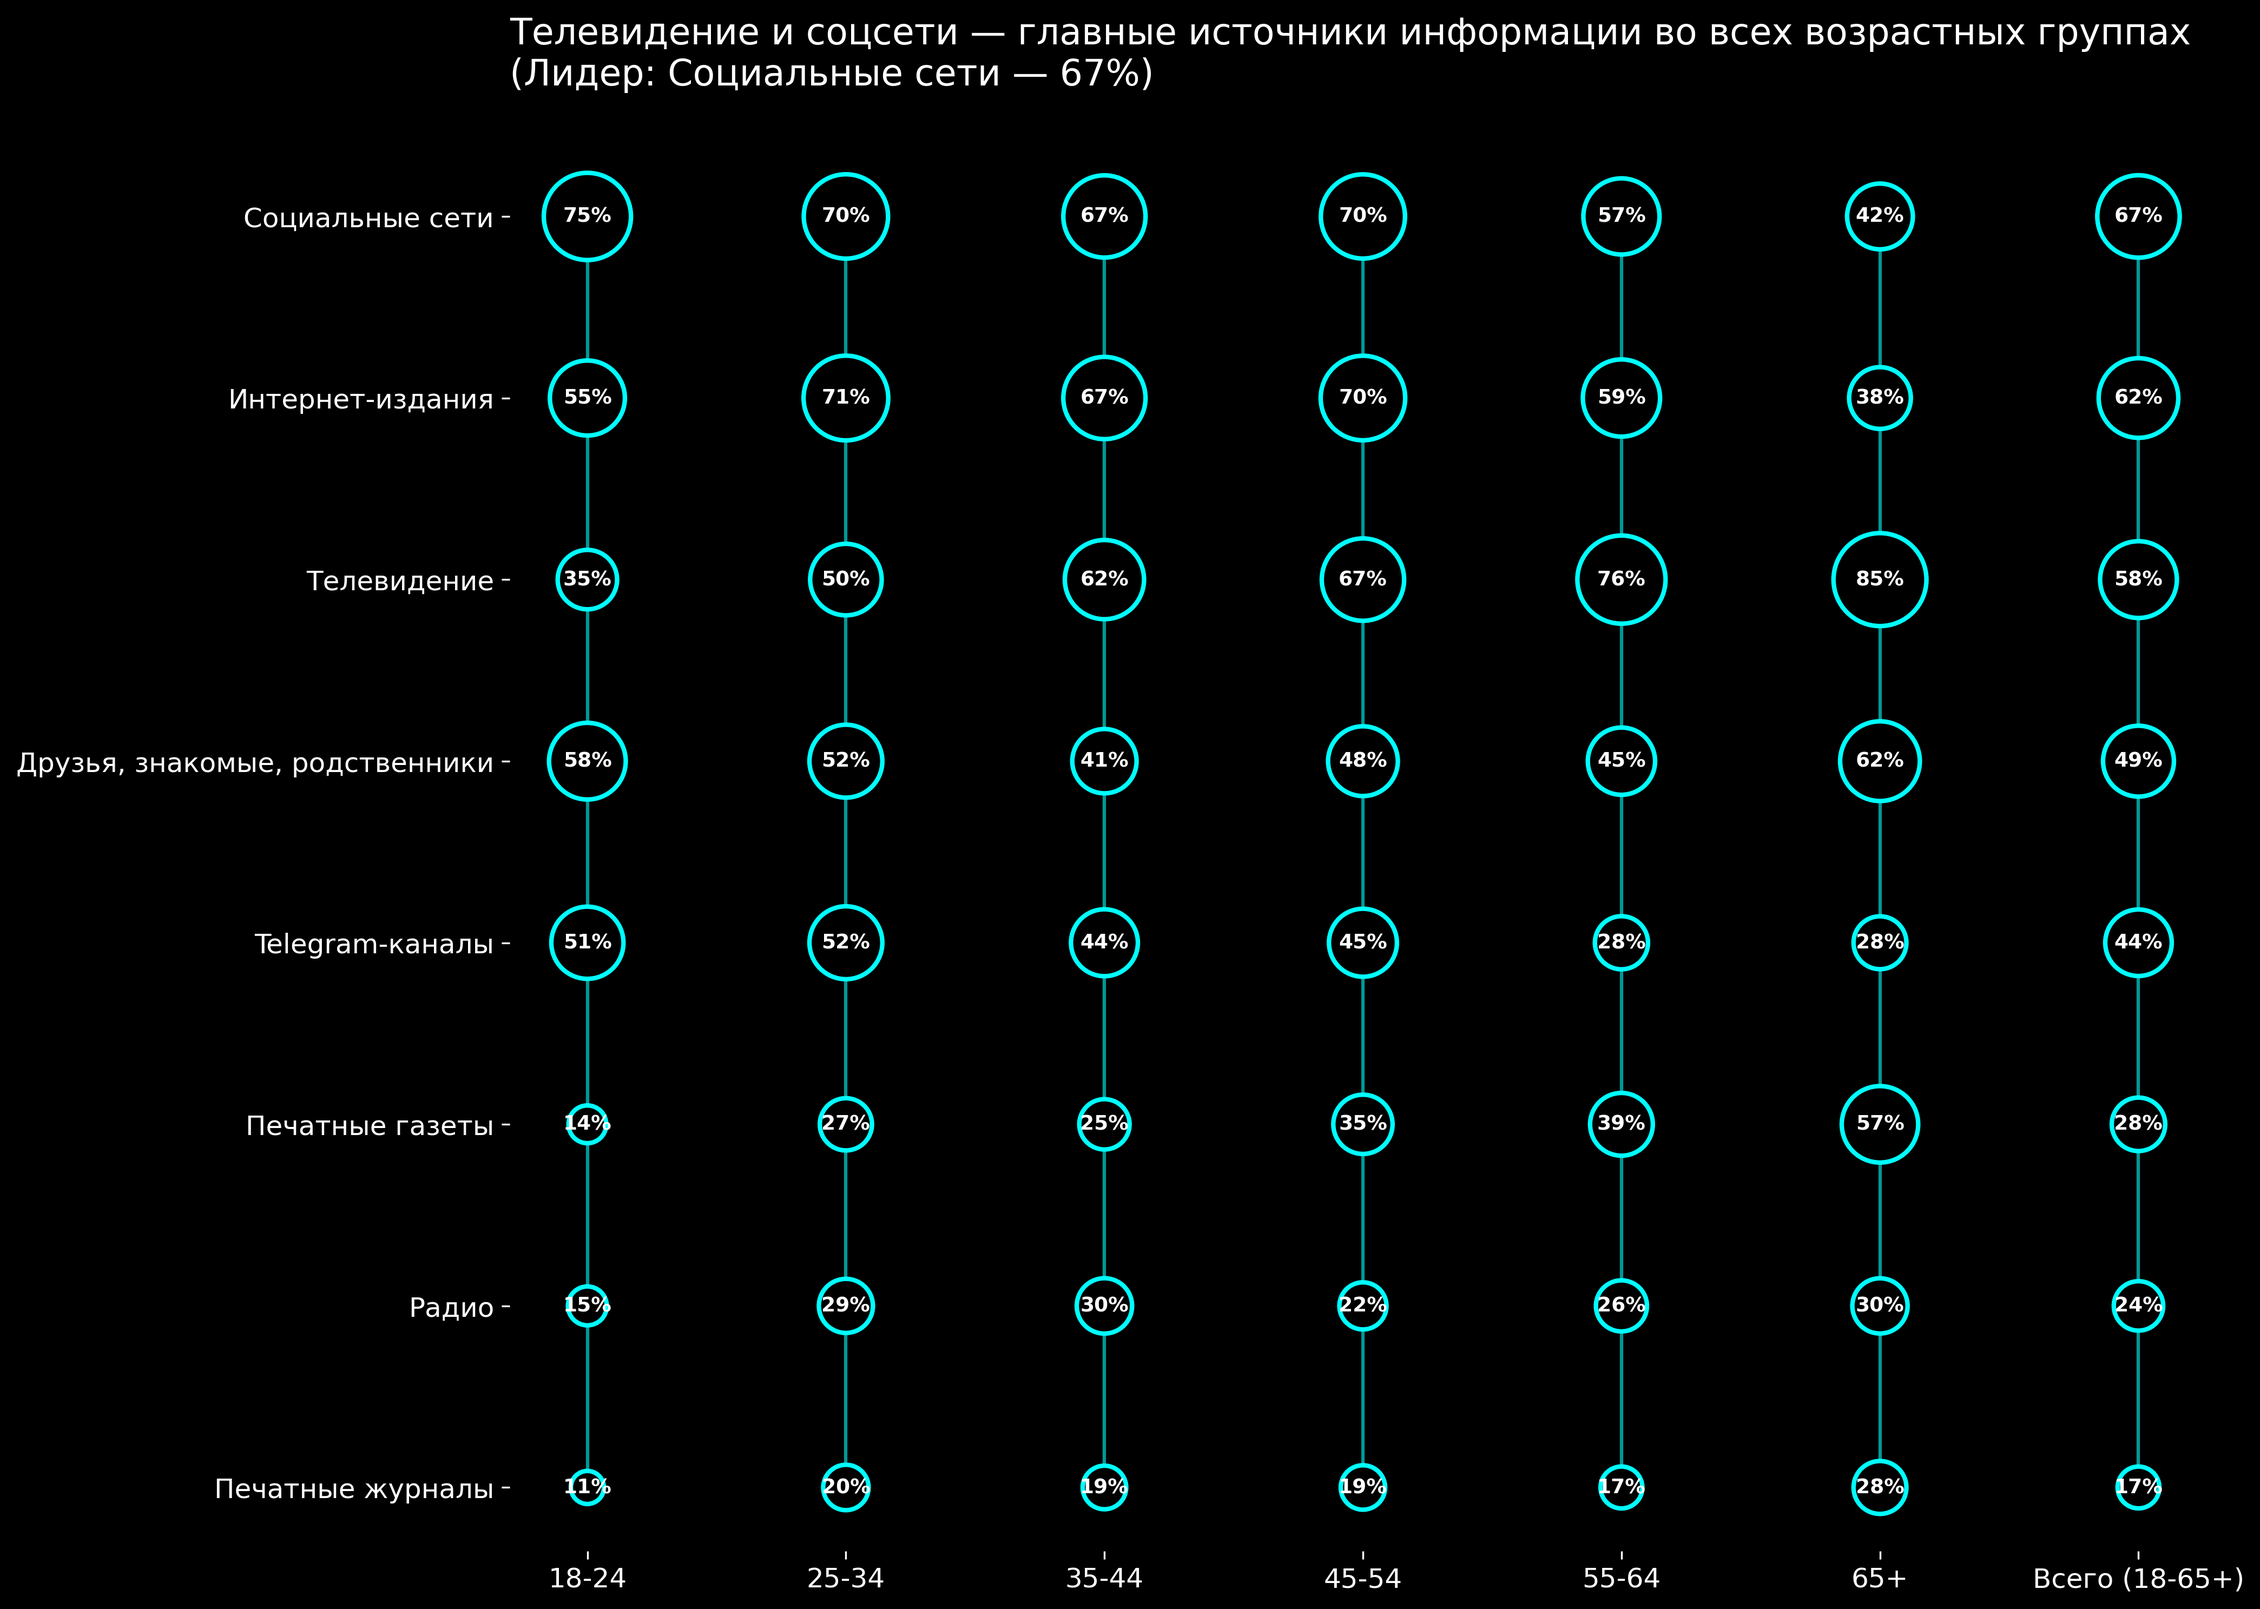
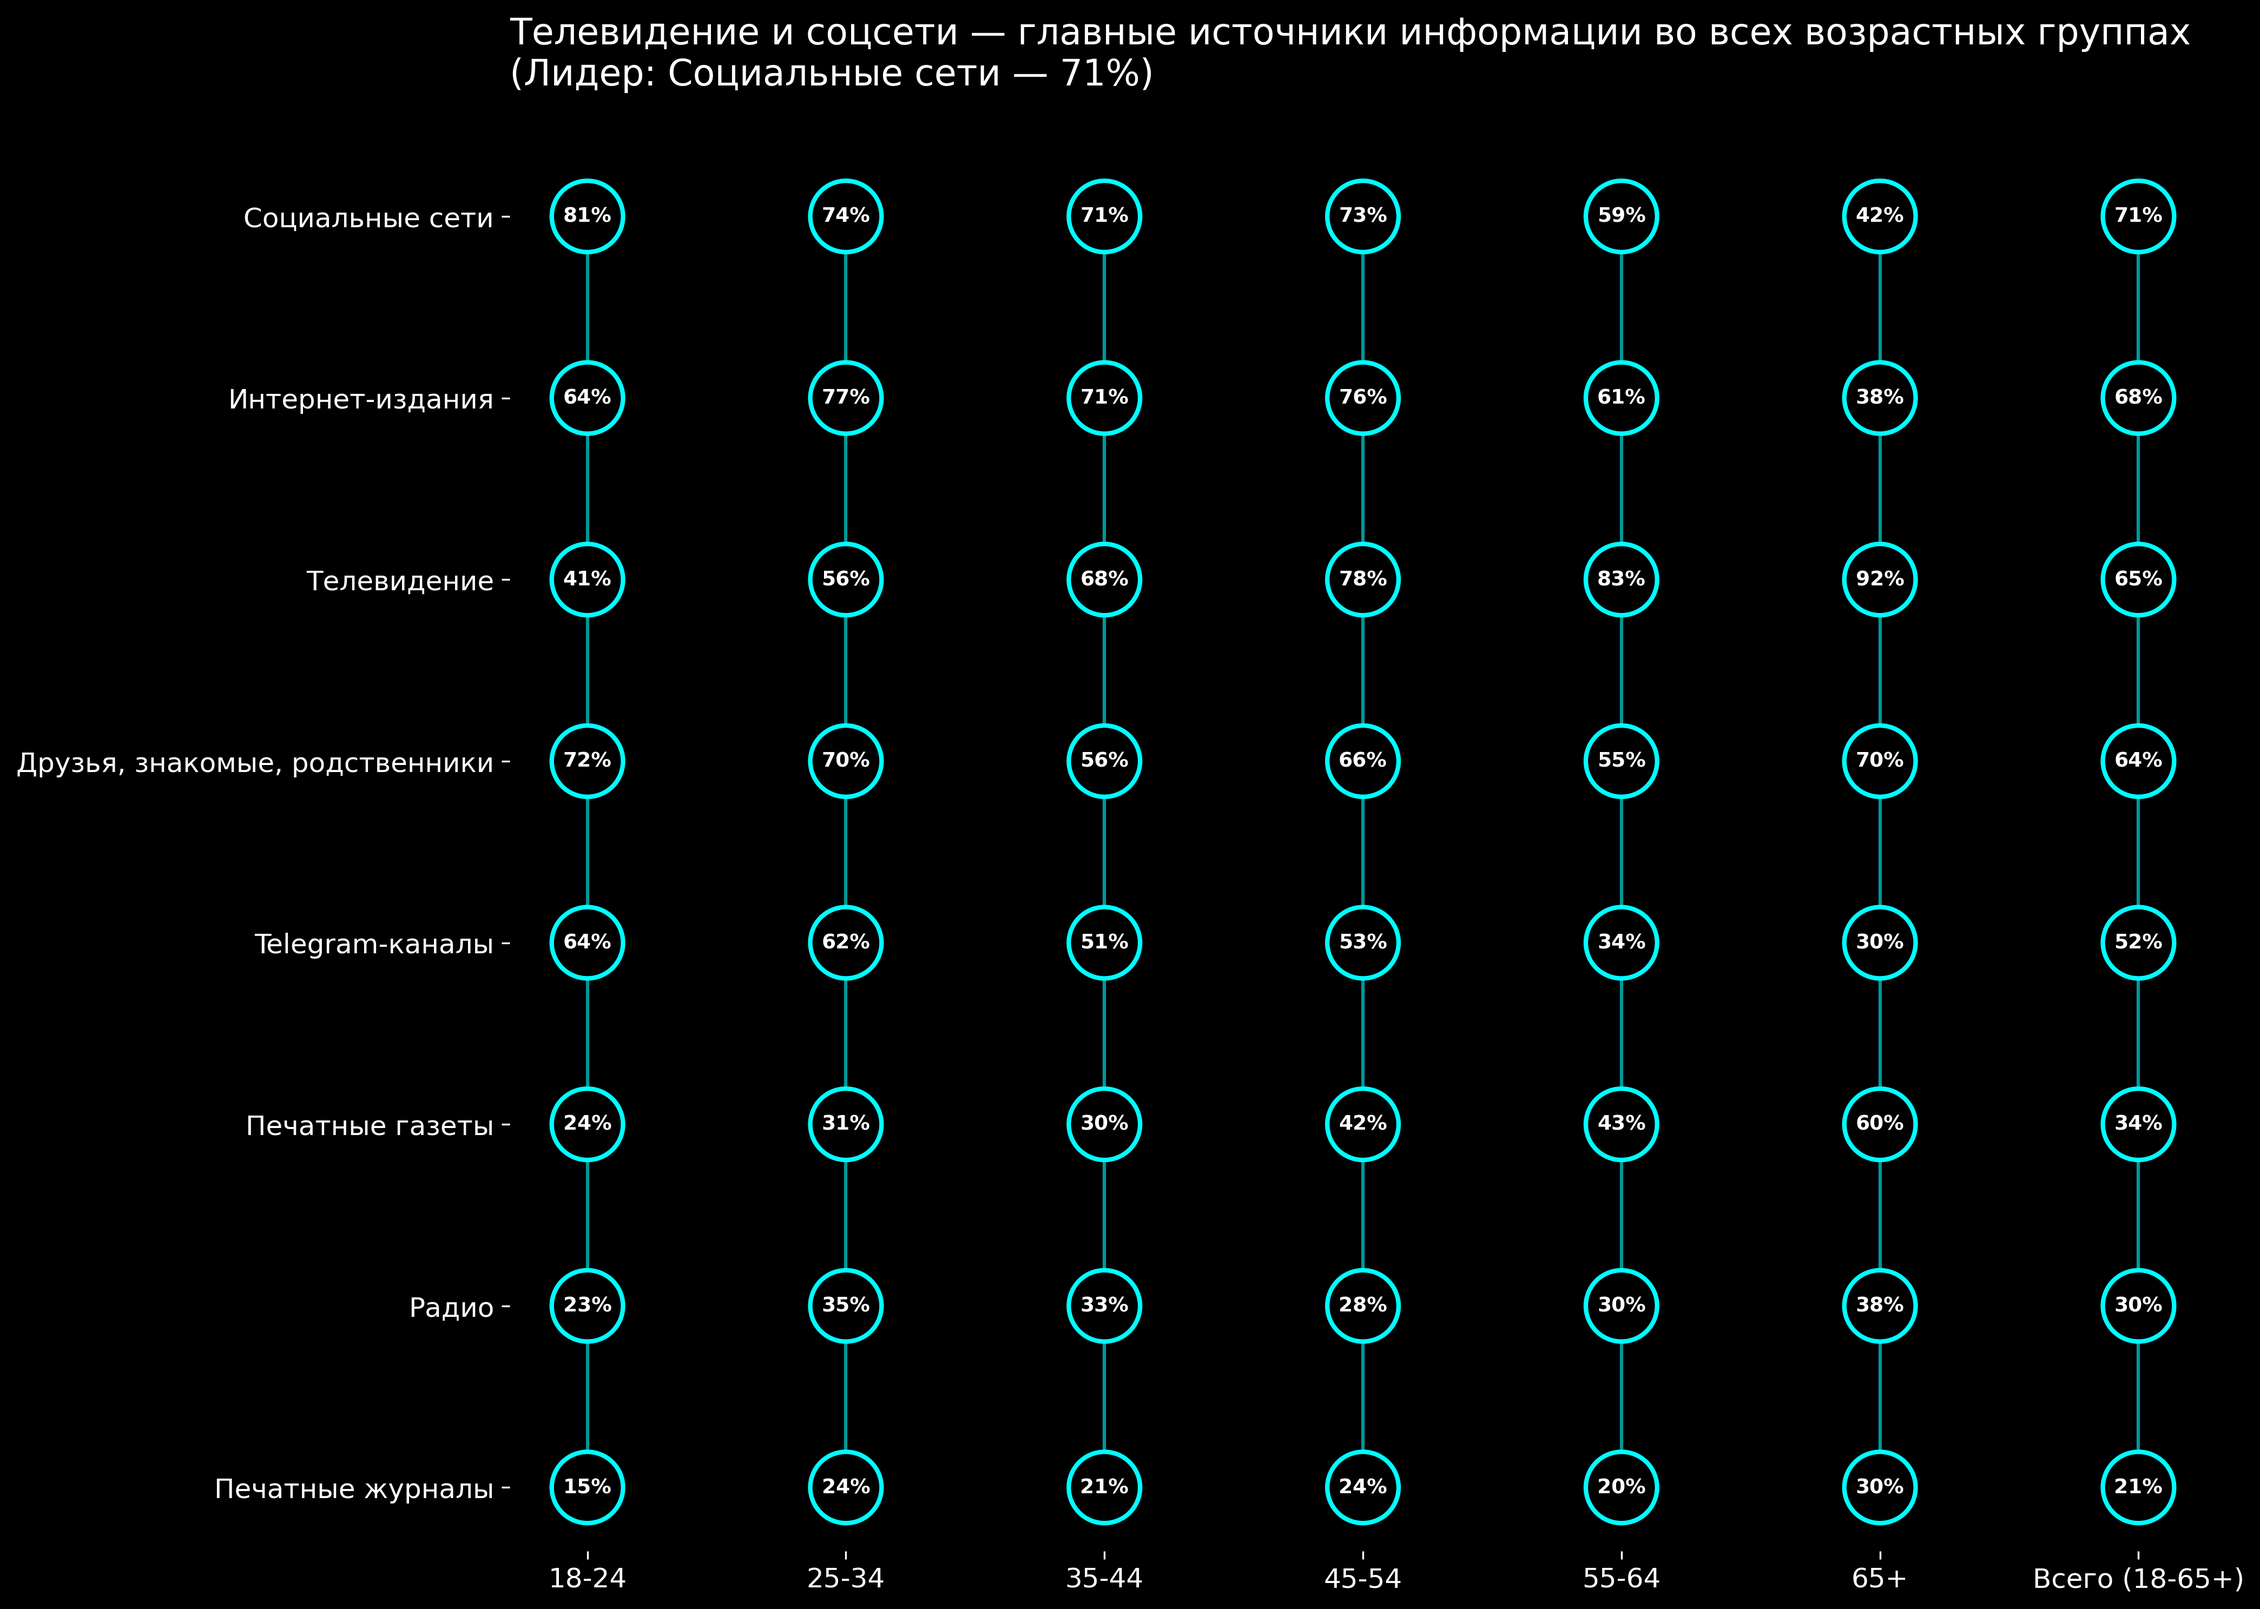
fix: bouble size

diff --git a/src/graphs/graph8.py b/src/graphs/graph8.py
@@ -53,7 +53,8 @@ def run() -> None:
     def is_user(val):
         if pd.isna(val):
             return False
-        return "Пользуюсь" in str(val)
+        val_str = str(val)
+        return "Пользуюсь" in val_str or "Доверяю" in val_str
 
     # 1. Calculate for each age group
     for group in age_labels:
@@ -144,8 +145,8 @@ def run() -> None:
         )
 
         # Plot bubbles
-        # Size proportional to percentage
-        sizes = group_data["Percentage"] * 20  # Scaling factor
+        # Use fixed size to match the visual reference (uniform bubbles)
+        sizes = [1000] * len(group_data)
 
         # Scatter plot for this group
         # Use simple scatter with mapped Y coordinates
